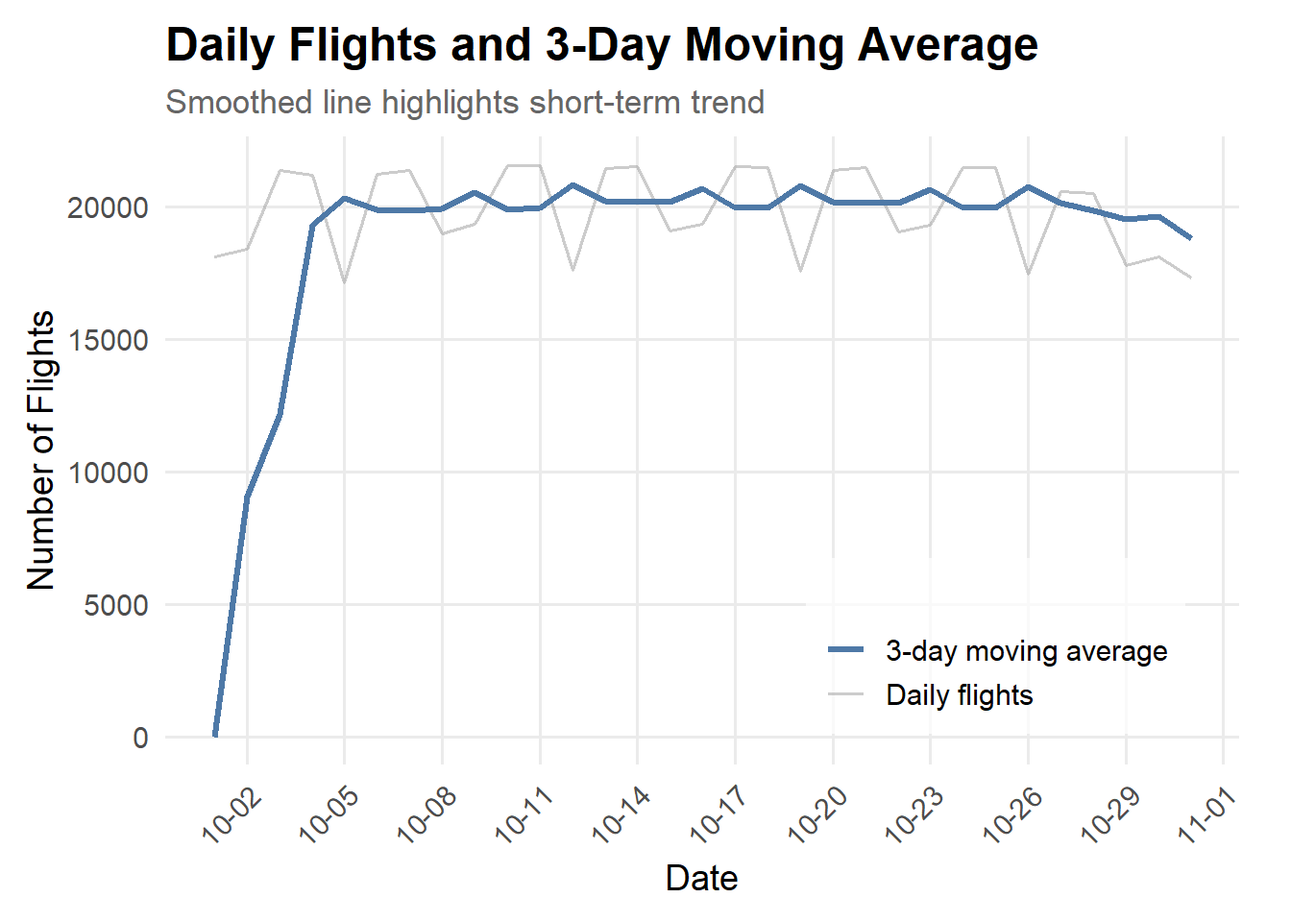
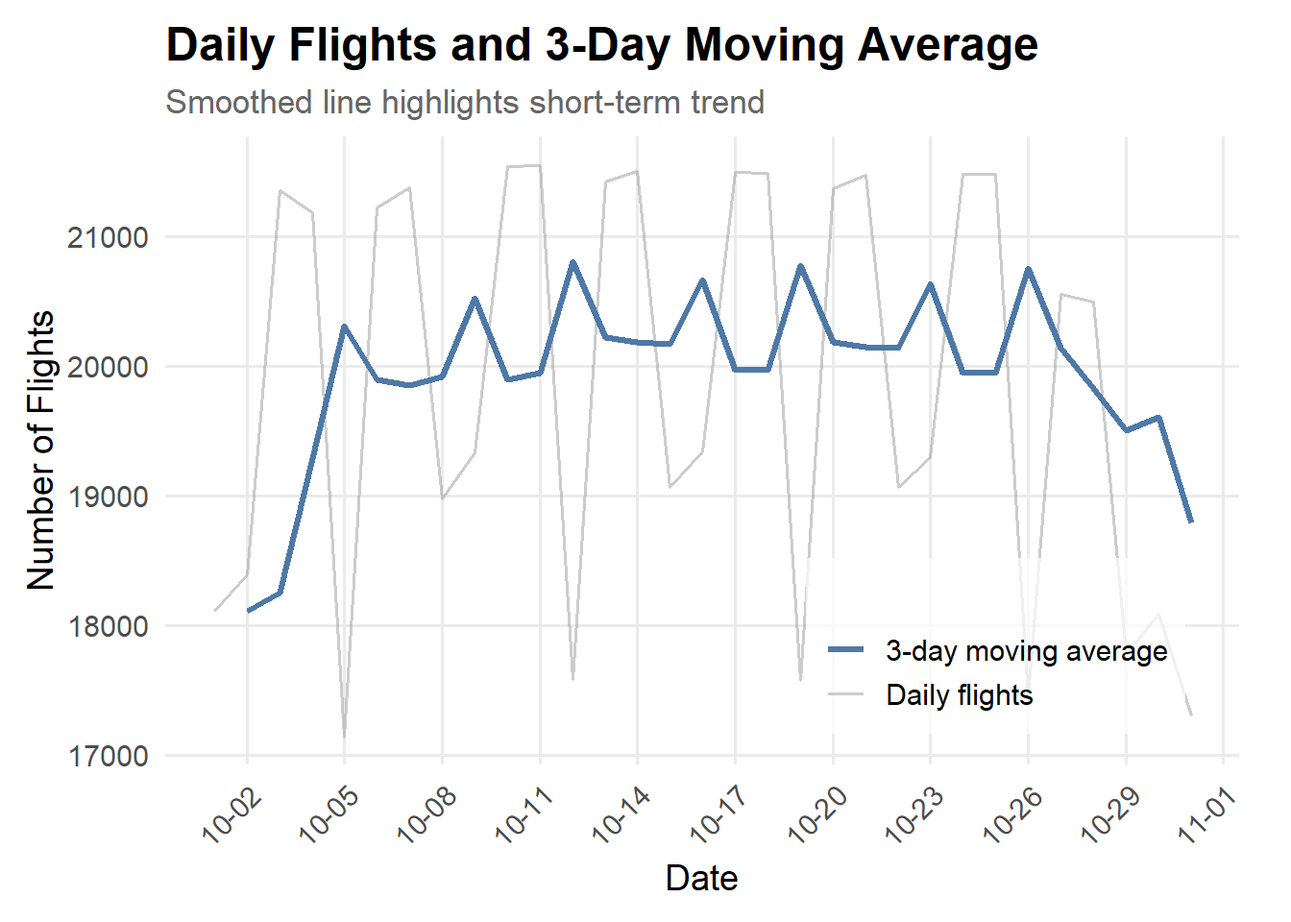
1

diff --git a/index.html b/index.html
@@ -214,43 +214,43 @@ pre > code.sourceCode > span > a:first-child::before { text-decoration: underlin
 <span id="cb1-4"><a href="#cb1-4" aria-hidden="true" tabindex="-1"></a><span class="fu">library</span>(ggplot2)</span>
 <span id="cb1-5"><a href="#cb1-5" aria-hidden="true" tabindex="-1"></a><span class="fu">library</span>(dplyr)</span>
 <span id="cb1-6"><a href="#cb1-6" aria-hidden="true" tabindex="-1"></a><span class="fu">library</span>(stringr)</span>
-<span id="cb1-7"><a href="#cb1-7" aria-hidden="true" tabindex="-1"></a><span class="fu">library</span>(forcats)</span>
-<span id="cb1-8"><a href="#cb1-8" aria-hidden="true" tabindex="-1"></a></span>
-<span id="cb1-9"><a href="#cb1-9" aria-hidden="true" tabindex="-1"></a>df_max_delay_airline <span class="ot">&lt;-</span> <span class="fu">read_csv</span>(<span class="st">"data/p1.csv"</span>)</span>
-<span id="cb1-10"><a href="#cb1-10" aria-hidden="true" tabindex="-1"></a>df_early_airline <span class="ot">&lt;-</span> <span class="fu">read_csv</span>(<span class="st">"data/p2.csv"</span>)</span>
-<span id="cb1-11"><a href="#cb1-11" aria-hidden="true" tabindex="-1"></a>df_weekday <span class="ot">&lt;-</span> <span class="fu">read_csv</span>(<span class="st">"data/p3.csv"</span>)</span>
-<span id="cb1-12"><a href="#cb1-12" aria-hidden="true" tabindex="-1"></a>df_worst_airport <span class="ot">&lt;-</span> <span class="fu">read_csv</span>(<span class="st">"data/p4.csv"</span>)</span>
-<span id="cb1-13"><a href="#cb1-13" aria-hidden="true" tabindex="-1"></a>df_worst_airport_by_airline <span class="ot">&lt;-</span> <span class="fu">read_csv</span>(<span class="st">"data/p5.csv"</span>)</span>
-<span id="cb1-14"><a href="#cb1-14" aria-hidden="true" tabindex="-1"></a>df_cancel_reason <span class="ot">&lt;-</span> <span class="fu">read_csv</span>(<span class="st">"data/p6b.csv"</span>)</span>
-<span id="cb1-15"><a href="#cb1-15" aria-hidden="true" tabindex="-1"></a>df_ma3 <span class="ot">&lt;-</span> <span class="fu">read_csv</span>(<span class="st">"data/p7.csv"</span>)</span></code></pre></div><button title="Copy to Clipboard" class="code-copy-button"><i class="bi"></i></button></div>
+<span id="cb1-7"><a href="#cb1-7" aria-hidden="true" tabindex="-1"></a><span class="fu">library</span>(forcats)</span></code></pre></div><button title="Copy to Clipboard" class="code-copy-button"><i class="bi"></i></button></div>
 </details>
 </div>
 <div class="cell">
 <details class="code-fold">
 <summary>Code</summary>
-<div class="code-copy-outer-scaffold"><div class="sourceCode cell-code" id="cb2"><pre class="sourceCode r code-with-copy"><code class="sourceCode r"><span id="cb2-1"><a href="#cb2-1" aria-hidden="true" tabindex="-1"></a>df_max_delay_airline <span class="sc">|&gt;</span></span>
-<span id="cb2-2"><a href="#cb2-2" aria-hidden="true" tabindex="-1"></a>  <span class="fu">arrange</span>(MaxDepDelay) <span class="sc">|&gt;</span></span>
-<span id="cb2-3"><a href="#cb2-3" aria-hidden="true" tabindex="-1"></a>  <span class="fu">mutate</span>(<span class="at">Airline =</span> <span class="fu">factor</span>(Airline, <span class="at">levels =</span> Airline)) <span class="sc">|&gt;</span></span>
-<span id="cb2-4"><a href="#cb2-4" aria-hidden="true" tabindex="-1"></a>  <span class="fu">ggplot</span>(<span class="fu">aes</span>(<span class="at">x =</span> Airline, <span class="at">y =</span> MaxDepDelay)) <span class="sc">+</span></span>
-<span id="cb2-5"><a href="#cb2-5" aria-hidden="true" tabindex="-1"></a>  <span class="fu">geom_col</span>(<span class="at">fill =</span> <span class="st">"#4E79A7"</span>) <span class="sc">+</span>   </span>
-<span id="cb2-6"><a href="#cb2-6" aria-hidden="true" tabindex="-1"></a>  <span class="fu">coord_flip</span>() <span class="sc">+</span></span>
-<span id="cb2-7"><a href="#cb2-7" aria-hidden="true" tabindex="-1"></a>  <span class="fu">labs</span>(</span>
-<span id="cb2-8"><a href="#cb2-8" aria-hidden="true" tabindex="-1"></a>    <span class="at">title =</span> <span class="st">"Maximum Departure Delay by Airline"</span>,</span>
-<span id="cb2-9"><a href="#cb2-9" aria-hidden="true" tabindex="-1"></a>    <span class="at">subtitle =</span> <span class="st">"Sorted by longest recorded departure delay"</span>,</span>
-<span id="cb2-10"><a href="#cb2-10" aria-hidden="true" tabindex="-1"></a>    <span class="at">x =</span> <span class="st">""</span>,</span>
-<span id="cb2-11"><a href="#cb2-11" aria-hidden="true" tabindex="-1"></a>    <span class="at">y =</span> <span class="st">"Maximum Delay (minutes)"</span></span>
-<span id="cb2-12"><a href="#cb2-12" aria-hidden="true" tabindex="-1"></a>  ) <span class="sc">+</span></span>
-<span id="cb2-13"><a href="#cb2-13" aria-hidden="true" tabindex="-1"></a>  <span class="fu">theme_minimal</span>(<span class="at">base_size =</span> <span class="dv">14</span>) <span class="sc">+</span></span>
-<span id="cb2-14"><a href="#cb2-14" aria-hidden="true" tabindex="-1"></a>  <span class="fu">theme</span>(</span>
-<span id="cb2-15"><a href="#cb2-15" aria-hidden="true" tabindex="-1"></a>    <span class="at">plot.title.position =</span> <span class="st">"plot"</span>,       </span>
-<span id="cb2-16"><a href="#cb2-16" aria-hidden="true" tabindex="-1"></a>    <span class="at">plot.title =</span> <span class="fu">element_text</span>(<span class="at">face =</span> <span class="st">"bold"</span>, <span class="at">size =</span> <span class="dv">18</span>, <span class="at">hjust =</span> <span class="dv">0</span>),  </span>
-<span id="cb2-17"><a href="#cb2-17" aria-hidden="true" tabindex="-1"></a>    <span class="at">plot.subtitle =</span> <span class="fu">element_text</span>(<span class="at">size =</span> <span class="dv">13</span>, <span class="at">colour =</span> <span class="st">"gray40"</span>, <span class="at">hjust =</span> <span class="dv">0</span>),</span>
-<span id="cb2-18"><a href="#cb2-18" aria-hidden="true" tabindex="-1"></a>    <span class="at">axis.text.y =</span> <span class="fu">element_text</span>(<span class="at">size =</span> <span class="dv">12</span>, <span class="at">face =</span> <span class="st">"bold"</span>),</span>
-<span id="cb2-19"><a href="#cb2-19" aria-hidden="true" tabindex="-1"></a>    <span class="at">axis.title.x =</span> <span class="fu">element_text</span>(<span class="at">size =</span> <span class="dv">12</span>),</span>
-<span id="cb2-20"><a href="#cb2-20" aria-hidden="true" tabindex="-1"></a>    <span class="at">panel.grid.major.y =</span> <span class="fu">element_blank</span>(),</span>
-<span id="cb2-21"><a href="#cb2-21" aria-hidden="true" tabindex="-1"></a>    <span class="at">panel.grid.minor =</span> <span class="fu">element_blank</span>(),</span>
-<span id="cb2-22"><a href="#cb2-22" aria-hidden="true" tabindex="-1"></a>    <span class="at">plot.margin =</span> <span class="fu">margin</span>(<span class="dv">10</span>, <span class="dv">20</span>, <span class="dv">10</span>, <span class="dv">10</span>)</span>
-<span id="cb2-23"><a href="#cb2-23" aria-hidden="true" tabindex="-1"></a>  )</span></code></pre></div><button title="Copy to Clipboard" class="code-copy-button"><i class="bi"></i></button></div>
+<div class="code-copy-outer-scaffold"><div class="sourceCode cell-code" id="cb2"><pre class="sourceCode r code-with-copy"><code class="sourceCode r"><span id="cb2-1"><a href="#cb2-1" aria-hidden="true" tabindex="-1"></a>df_max_delay_airline <span class="ot">&lt;-</span> <span class="fu">read_csv</span>(<span class="st">"data/p1.csv"</span>)</span>
+<span id="cb2-2"><a href="#cb2-2" aria-hidden="true" tabindex="-1"></a>df_early_airline <span class="ot">&lt;-</span> <span class="fu">read_csv</span>(<span class="st">"data/p2.csv"</span>)</span>
+<span id="cb2-3"><a href="#cb2-3" aria-hidden="true" tabindex="-1"></a>df_weekday <span class="ot">&lt;-</span> <span class="fu">read_csv</span>(<span class="st">"data/p3.csv"</span>)</span>
+<span id="cb2-4"><a href="#cb2-4" aria-hidden="true" tabindex="-1"></a>df_worst_airport <span class="ot">&lt;-</span> <span class="fu">read_csv</span>(<span class="st">"data/p4.csv"</span>)</span>
+<span id="cb2-5"><a href="#cb2-5" aria-hidden="true" tabindex="-1"></a>df_worst_airport_by_airline <span class="ot">&lt;-</span> <span class="fu">read_csv</span>(<span class="st">"data/p5.csv"</span>)</span>
+<span id="cb2-6"><a href="#cb2-6" aria-hidden="true" tabindex="-1"></a>df_cancel_reason <span class="ot">&lt;-</span> <span class="fu">read_csv</span>(<span class="st">"data/p6b.csv"</span>)</span>
+<span id="cb2-7"><a href="#cb2-7" aria-hidden="true" tabindex="-1"></a>df_ma3 <span class="ot">&lt;-</span> <span class="fu">read_csv</span>(<span class="st">"data/p7.csv"</span>)</span>
+<span id="cb2-8"><a href="#cb2-8" aria-hidden="true" tabindex="-1"></a></span>
+<span id="cb2-9"><a href="#cb2-9" aria-hidden="true" tabindex="-1"></a>df_max_delay_airline <span class="sc">|&gt;</span></span>
+<span id="cb2-10"><a href="#cb2-10" aria-hidden="true" tabindex="-1"></a>  <span class="fu">arrange</span>(MaxDepDelay) <span class="sc">|&gt;</span></span>
+<span id="cb2-11"><a href="#cb2-11" aria-hidden="true" tabindex="-1"></a>  <span class="fu">mutate</span>(<span class="at">Airline =</span> <span class="fu">factor</span>(Airline, <span class="at">levels =</span> Airline)) <span class="sc">|&gt;</span></span>
+<span id="cb2-12"><a href="#cb2-12" aria-hidden="true" tabindex="-1"></a>  <span class="fu">ggplot</span>(<span class="fu">aes</span>(<span class="at">x =</span> Airline, <span class="at">y =</span> MaxDepDelay)) <span class="sc">+</span></span>
+<span id="cb2-13"><a href="#cb2-13" aria-hidden="true" tabindex="-1"></a>  <span class="fu">geom_col</span>(<span class="at">fill =</span> <span class="st">"#4E79A7"</span>) <span class="sc">+</span>   </span>
+<span id="cb2-14"><a href="#cb2-14" aria-hidden="true" tabindex="-1"></a>  <span class="fu">coord_flip</span>() <span class="sc">+</span></span>
+<span id="cb2-15"><a href="#cb2-15" aria-hidden="true" tabindex="-1"></a>  <span class="fu">labs</span>(</span>
+<span id="cb2-16"><a href="#cb2-16" aria-hidden="true" tabindex="-1"></a>    <span class="at">title =</span> <span class="st">"Maximum Departure Delay by Airline"</span>,</span>
+<span id="cb2-17"><a href="#cb2-17" aria-hidden="true" tabindex="-1"></a>    <span class="at">subtitle =</span> <span class="st">"Sorted by longest recorded departure delay"</span>,</span>
+<span id="cb2-18"><a href="#cb2-18" aria-hidden="true" tabindex="-1"></a>    <span class="at">x =</span> <span class="st">""</span>,</span>
+<span id="cb2-19"><a href="#cb2-19" aria-hidden="true" tabindex="-1"></a>    <span class="at">y =</span> <span class="st">"Maximum Delay (minutes)"</span></span>
+<span id="cb2-20"><a href="#cb2-20" aria-hidden="true" tabindex="-1"></a>  ) <span class="sc">+</span></span>
+<span id="cb2-21"><a href="#cb2-21" aria-hidden="true" tabindex="-1"></a>  <span class="fu">theme_minimal</span>(<span class="at">base_size =</span> <span class="dv">14</span>) <span class="sc">+</span></span>
+<span id="cb2-22"><a href="#cb2-22" aria-hidden="true" tabindex="-1"></a>  <span class="fu">theme</span>(</span>
+<span id="cb2-23"><a href="#cb2-23" aria-hidden="true" tabindex="-1"></a>    <span class="at">plot.title.position =</span> <span class="st">"plot"</span>,       </span>
+<span id="cb2-24"><a href="#cb2-24" aria-hidden="true" tabindex="-1"></a>    <span class="at">plot.title =</span> <span class="fu">element_text</span>(<span class="at">face =</span> <span class="st">"bold"</span>, <span class="at">size =</span> <span class="dv">18</span>, <span class="at">hjust =</span> <span class="dv">0</span>),  </span>
+<span id="cb2-25"><a href="#cb2-25" aria-hidden="true" tabindex="-1"></a>    <span class="at">plot.subtitle =</span> <span class="fu">element_text</span>(<span class="at">size =</span> <span class="dv">13</span>, <span class="at">colour =</span> <span class="st">"gray40"</span>, <span class="at">hjust =</span> <span class="dv">0</span>),</span>
+<span id="cb2-26"><a href="#cb2-26" aria-hidden="true" tabindex="-1"></a>    <span class="at">axis.text.y =</span> <span class="fu">element_text</span>(<span class="at">size =</span> <span class="dv">12</span>, <span class="at">face =</span> <span class="st">"bold"</span>),</span>
+<span id="cb2-27"><a href="#cb2-27" aria-hidden="true" tabindex="-1"></a>    <span class="at">axis.title.x =</span> <span class="fu">element_text</span>(<span class="at">size =</span> <span class="dv">12</span>),</span>
+<span id="cb2-28"><a href="#cb2-28" aria-hidden="true" tabindex="-1"></a>    <span class="at">panel.grid.major.y =</span> <span class="fu">element_blank</span>(),</span>
+<span id="cb2-29"><a href="#cb2-29" aria-hidden="true" tabindex="-1"></a>    <span class="at">panel.grid.minor =</span> <span class="fu">element_blank</span>(),</span>
+<span id="cb2-30"><a href="#cb2-30" aria-hidden="true" tabindex="-1"></a>    <span class="at">plot.margin =</span> <span class="fu">margin</span>(<span class="dv">10</span>, <span class="dv">20</span>, <span class="dv">10</span>, <span class="dv">10</span>)</span>
+<span id="cb2-31"><a href="#cb2-31" aria-hidden="true" tabindex="-1"></a>  )</span></code></pre></div><button title="Copy to Clipboard" class="code-copy-button"><i class="bi"></i></button></div>
 </details>
 <div class="cell-output-display">
 <div>
@@ -377,43 +377,50 @@ pre > code.sourceCode > span > a:first-child::before { text-decoration: underlin
 <div class="cell">
 <details class="code-fold">
 <summary>Code</summary>
-<div class="code-copy-outer-scaffold"><div class="sourceCode cell-code" id="cb5"><pre class="sourceCode r code-with-copy"><code class="sourceCode r"><span id="cb5-1"><a href="#cb5-1" aria-hidden="true" tabindex="-1"></a>df_ma3 <span class="sc">|&gt;</span></span>
+<div class="code-copy-outer-scaffold"><div class="sourceCode cell-code" id="cb5"><pre class="sourceCode r code-with-copy"><code class="sourceCode r"><span id="cb5-1"><a href="#cb5-1" aria-hidden="true" tabindex="-1"></a>df_ma3 <span class="ot">&lt;-</span> df_ma3 <span class="sc">|&gt;</span></span>
 <span id="cb5-2"><a href="#cb5-2" aria-hidden="true" tabindex="-1"></a>  <span class="fu">mutate</span>(</span>
-<span id="cb5-3"><a href="#cb5-3" aria-hidden="true" tabindex="-1"></a>    <span class="at">Date =</span> <span class="fu">as_date</span>(d)</span>
-<span id="cb5-4"><a href="#cb5-4" aria-hidden="true" tabindex="-1"></a>  ) <span class="sc">|&gt;</span></span>
-<span id="cb5-5"><a href="#cb5-5" aria-hidden="true" tabindex="-1"></a>  <span class="fu">ggplot</span>(<span class="fu">aes</span>(<span class="at">x =</span> Date)) <span class="sc">+</span></span>
-<span id="cb5-6"><a href="#cb5-6" aria-hidden="true" tabindex="-1"></a>  <span class="fu">geom_line</span>(<span class="fu">aes</span>(<span class="at">y =</span> NumFlights, <span class="at">colour =</span> <span class="st">"Daily flights"</span>),</span>
-<span id="cb5-7"><a href="#cb5-7" aria-hidden="true" tabindex="-1"></a>            <span class="at">linewidth =</span> <span class="fl">0.6</span>, <span class="at">alpha =</span> <span class="fl">0.5</span>) <span class="sc">+</span></span>
-<span id="cb5-8"><a href="#cb5-8" aria-hidden="true" tabindex="-1"></a>  <span class="fu">geom_line</span>(<span class="fu">aes</span>(<span class="at">y =</span> AvgPrev3Days, <span class="at">colour =</span> <span class="st">"3-day moving average"</span>),</span>
-<span id="cb5-9"><a href="#cb5-9" aria-hidden="true" tabindex="-1"></a>            <span class="at">linewidth =</span> <span class="fl">1.2</span>) <span class="sc">+</span></span>
-<span id="cb5-10"><a href="#cb5-10" aria-hidden="true" tabindex="-1"></a>  <span class="fu">scale_colour_manual</span>(</span>
-<span id="cb5-11"><a href="#cb5-11" aria-hidden="true" tabindex="-1"></a>    <span class="at">name =</span> <span class="st">""</span>,</span>
-<span id="cb5-12"><a href="#cb5-12" aria-hidden="true" tabindex="-1"></a>    <span class="at">values =</span> <span class="fu">c</span>(</span>
-<span id="cb5-13"><a href="#cb5-13" aria-hidden="true" tabindex="-1"></a>      <span class="st">"Daily flights"</span> <span class="ot">=</span> <span class="st">"grey60"</span>,</span>
-<span id="cb5-14"><a href="#cb5-14" aria-hidden="true" tabindex="-1"></a>      <span class="st">"3-day moving average"</span> <span class="ot">=</span> <span class="st">"#4E79A7"</span>   </span>
-<span id="cb5-15"><a href="#cb5-15" aria-hidden="true" tabindex="-1"></a>    )</span>
-<span id="cb5-16"><a href="#cb5-16" aria-hidden="true" tabindex="-1"></a>  ) <span class="sc">+</span></span>
-<span id="cb5-17"><a href="#cb5-17" aria-hidden="true" tabindex="-1"></a>  <span class="fu">scale_x_date</span>(</span>
-<span id="cb5-18"><a href="#cb5-18" aria-hidden="true" tabindex="-1"></a>    <span class="at">date_breaks =</span> <span class="st">"3 days"</span>,</span>
-<span id="cb5-19"><a href="#cb5-19" aria-hidden="true" tabindex="-1"></a>    <span class="at">date_labels =</span> <span class="st">"%m-%d"</span></span>
-<span id="cb5-20"><a href="#cb5-20" aria-hidden="true" tabindex="-1"></a>  ) <span class="sc">+</span></span>
-<span id="cb5-21"><a href="#cb5-21" aria-hidden="true" tabindex="-1"></a>  <span class="fu">labs</span>(</span>
-<span id="cb5-22"><a href="#cb5-22" aria-hidden="true" tabindex="-1"></a>    <span class="at">title =</span> <span class="st">"Daily Flights and 3-Day Moving Average"</span>,</span>
-<span id="cb5-23"><a href="#cb5-23" aria-hidden="true" tabindex="-1"></a>    <span class="at">subtitle =</span> <span class="st">"Smoothed line highlights short-term trend"</span>,</span>
-<span id="cb5-24"><a href="#cb5-24" aria-hidden="true" tabindex="-1"></a>    <span class="at">x =</span> <span class="st">"Date"</span>,</span>
-<span id="cb5-25"><a href="#cb5-25" aria-hidden="true" tabindex="-1"></a>    <span class="at">y =</span> <span class="st">"Number of Flights"</span></span>
-<span id="cb5-26"><a href="#cb5-26" aria-hidden="true" tabindex="-1"></a>  ) <span class="sc">+</span></span>
-<span id="cb5-27"><a href="#cb5-27" aria-hidden="true" tabindex="-1"></a>  <span class="fu">theme_minimal</span>(<span class="at">base_size =</span> <span class="dv">14</span>) <span class="sc">+</span></span>
-<span id="cb5-28"><a href="#cb5-28" aria-hidden="true" tabindex="-1"></a>  <span class="fu">theme</span>(</span>
-<span id="cb5-29"><a href="#cb5-29" aria-hidden="true" tabindex="-1"></a>    <span class="at">plot.title =</span> <span class="fu">element_text</span>(<span class="at">face =</span> <span class="st">"bold"</span>, <span class="at">size =</span> <span class="dv">18</span>),</span>
-<span id="cb5-30"><a href="#cb5-30" aria-hidden="true" tabindex="-1"></a>    <span class="at">plot.subtitle =</span> <span class="fu">element_text</span>(<span class="at">size =</span> <span class="dv">13</span>, <span class="at">colour =</span> <span class="st">"gray40"</span>),</span>
-<span id="cb5-31"><a href="#cb5-31" aria-hidden="true" tabindex="-1"></a>    <span class="at">legend.position =</span> <span class="fu">c</span>(<span class="fl">0.95</span>, <span class="fl">0.05</span>),</span>
-<span id="cb5-32"><a href="#cb5-32" aria-hidden="true" tabindex="-1"></a>    <span class="at">legend.justification =</span> <span class="fu">c</span>(<span class="st">"right"</span>, <span class="st">"bottom"</span>),</span>
-<span id="cb5-33"><a href="#cb5-33" aria-hidden="true" tabindex="-1"></a>    <span class="at">legend.background =</span> <span class="fu">element_rect</span>(<span class="at">fill =</span> <span class="fu">alpha</span>(<span class="st">"white"</span>, <span class="fl">0.7</span>), <span class="at">colour =</span> <span class="cn">NA</span>),</span>
-<span id="cb5-34"><a href="#cb5-34" aria-hidden="true" tabindex="-1"></a>    <span class="at">panel.grid.minor =</span> <span class="fu">element_blank</span>(),</span>
-<span id="cb5-35"><a href="#cb5-35" aria-hidden="true" tabindex="-1"></a>    <span class="at">axis.text.x =</span> <span class="fu">element_text</span>(<span class="at">angle =</span> <span class="dv">45</span>, <span class="at">hjust =</span> <span class="dv">1</span>),</span>
-<span id="cb5-36"><a href="#cb5-36" aria-hidden="true" tabindex="-1"></a>    <span class="at">plot.margin =</span> <span class="fu">margin</span>(<span class="dv">10</span>, <span class="dv">20</span>, <span class="dv">10</span>, <span class="dv">10</span>)</span>
-<span id="cb5-37"><a href="#cb5-37" aria-hidden="true" tabindex="-1"></a>  )</span></code></pre></div><button title="Copy to Clipboard" class="code-copy-button"><i class="bi"></i></button></div>
+<span id="cb5-3"><a href="#cb5-3" aria-hidden="true" tabindex="-1"></a>    <span class="at">Date =</span> <span class="fu">as_date</span>(d),</span>
+<span id="cb5-4"><a href="#cb5-4" aria-hidden="true" tabindex="-1"></a>    <span class="at">NumFlights =</span> <span class="fu">as.numeric</span>(NumFlights),</span>
+<span id="cb5-5"><a href="#cb5-5" aria-hidden="true" tabindex="-1"></a>    <span class="at">AvgPrev3Days =</span> <span class="fu">as.numeric</span>(AvgPrev3Days)</span>
+<span id="cb5-6"><a href="#cb5-6" aria-hidden="true" tabindex="-1"></a>  )</span>
+<span id="cb5-7"><a href="#cb5-7" aria-hidden="true" tabindex="-1"></a></span>
+<span id="cb5-8"><a href="#cb5-8" aria-hidden="true" tabindex="-1"></a>df_ma3 <span class="sc">|&gt;</span></span>
+<span id="cb5-9"><a href="#cb5-9" aria-hidden="true" tabindex="-1"></a>  <span class="fu">mutate</span>(</span>
+<span id="cb5-10"><a href="#cb5-10" aria-hidden="true" tabindex="-1"></a>    <span class="at">Date =</span> <span class="fu">as_date</span>(d)</span>
+<span id="cb5-11"><a href="#cb5-11" aria-hidden="true" tabindex="-1"></a>  ) <span class="sc">|&gt;</span></span>
+<span id="cb5-12"><a href="#cb5-12" aria-hidden="true" tabindex="-1"></a>  <span class="fu">ggplot</span>(<span class="fu">aes</span>(<span class="at">x =</span> Date)) <span class="sc">+</span></span>
+<span id="cb5-13"><a href="#cb5-13" aria-hidden="true" tabindex="-1"></a>  <span class="fu">geom_line</span>(<span class="fu">aes</span>(<span class="at">y =</span> NumFlights, <span class="at">colour =</span> <span class="st">"Daily flights"</span>),</span>
+<span id="cb5-14"><a href="#cb5-14" aria-hidden="true" tabindex="-1"></a>            <span class="at">linewidth =</span> <span class="fl">0.6</span>, <span class="at">alpha =</span> <span class="fl">0.5</span>) <span class="sc">+</span></span>
+<span id="cb5-15"><a href="#cb5-15" aria-hidden="true" tabindex="-1"></a>  <span class="fu">geom_line</span>(<span class="fu">aes</span>(<span class="at">y =</span> AvgPrev3Days, <span class="at">colour =</span> <span class="st">"3-day moving average"</span>),</span>
+<span id="cb5-16"><a href="#cb5-16" aria-hidden="true" tabindex="-1"></a>            <span class="at">linewidth =</span> <span class="fl">1.2</span>) <span class="sc">+</span></span>
+<span id="cb5-17"><a href="#cb5-17" aria-hidden="true" tabindex="-1"></a>  <span class="fu">scale_colour_manual</span>(</span>
+<span id="cb5-18"><a href="#cb5-18" aria-hidden="true" tabindex="-1"></a>    <span class="at">name =</span> <span class="st">""</span>,</span>
+<span id="cb5-19"><a href="#cb5-19" aria-hidden="true" tabindex="-1"></a>    <span class="at">values =</span> <span class="fu">c</span>(</span>
+<span id="cb5-20"><a href="#cb5-20" aria-hidden="true" tabindex="-1"></a>      <span class="st">"Daily flights"</span> <span class="ot">=</span> <span class="st">"grey60"</span>,</span>
+<span id="cb5-21"><a href="#cb5-21" aria-hidden="true" tabindex="-1"></a>      <span class="st">"3-day moving average"</span> <span class="ot">=</span> <span class="st">"#4E79A7"</span>   </span>
+<span id="cb5-22"><a href="#cb5-22" aria-hidden="true" tabindex="-1"></a>    )</span>
+<span id="cb5-23"><a href="#cb5-23" aria-hidden="true" tabindex="-1"></a>  ) <span class="sc">+</span></span>
+<span id="cb5-24"><a href="#cb5-24" aria-hidden="true" tabindex="-1"></a>  <span class="fu">scale_x_date</span>(</span>
+<span id="cb5-25"><a href="#cb5-25" aria-hidden="true" tabindex="-1"></a>    <span class="at">date_breaks =</span> <span class="st">"3 days"</span>,</span>
+<span id="cb5-26"><a href="#cb5-26" aria-hidden="true" tabindex="-1"></a>    <span class="at">date_labels =</span> <span class="st">"%m-%d"</span></span>
+<span id="cb5-27"><a href="#cb5-27" aria-hidden="true" tabindex="-1"></a>  ) <span class="sc">+</span></span>
+<span id="cb5-28"><a href="#cb5-28" aria-hidden="true" tabindex="-1"></a>  <span class="fu">labs</span>(</span>
+<span id="cb5-29"><a href="#cb5-29" aria-hidden="true" tabindex="-1"></a>    <span class="at">title =</span> <span class="st">"Daily Flights and 3-Day Moving Average"</span>,</span>
+<span id="cb5-30"><a href="#cb5-30" aria-hidden="true" tabindex="-1"></a>    <span class="at">subtitle =</span> <span class="st">"Smoothed line highlights short-term trend"</span>,</span>
+<span id="cb5-31"><a href="#cb5-31" aria-hidden="true" tabindex="-1"></a>    <span class="at">x =</span> <span class="st">"Date"</span>,</span>
+<span id="cb5-32"><a href="#cb5-32" aria-hidden="true" tabindex="-1"></a>    <span class="at">y =</span> <span class="st">"Number of Flights"</span></span>
+<span id="cb5-33"><a href="#cb5-33" aria-hidden="true" tabindex="-1"></a>  ) <span class="sc">+</span></span>
+<span id="cb5-34"><a href="#cb5-34" aria-hidden="true" tabindex="-1"></a>  <span class="fu">theme_minimal</span>(<span class="at">base_size =</span> <span class="dv">14</span>) <span class="sc">+</span></span>
+<span id="cb5-35"><a href="#cb5-35" aria-hidden="true" tabindex="-1"></a>  <span class="fu">theme</span>(</span>
+<span id="cb5-36"><a href="#cb5-36" aria-hidden="true" tabindex="-1"></a>    <span class="at">plot.title =</span> <span class="fu">element_text</span>(<span class="at">face =</span> <span class="st">"bold"</span>, <span class="at">size =</span> <span class="dv">18</span>),</span>
+<span id="cb5-37"><a href="#cb5-37" aria-hidden="true" tabindex="-1"></a>    <span class="at">plot.subtitle =</span> <span class="fu">element_text</span>(<span class="at">size =</span> <span class="dv">13</span>, <span class="at">colour =</span> <span class="st">"gray40"</span>),</span>
+<span id="cb5-38"><a href="#cb5-38" aria-hidden="true" tabindex="-1"></a>    <span class="at">legend.position =</span> <span class="fu">c</span>(<span class="fl">0.95</span>, <span class="fl">0.05</span>),</span>
+<span id="cb5-39"><a href="#cb5-39" aria-hidden="true" tabindex="-1"></a>    <span class="at">legend.justification =</span> <span class="fu">c</span>(<span class="st">"right"</span>, <span class="st">"bottom"</span>),</span>
+<span id="cb5-40"><a href="#cb5-40" aria-hidden="true" tabindex="-1"></a>    <span class="at">legend.background =</span> <span class="fu">element_rect</span>(<span class="at">fill =</span> <span class="fu">alpha</span>(<span class="st">"white"</span>, <span class="fl">0.7</span>), <span class="at">colour =</span> <span class="cn">NA</span>),</span>
+<span id="cb5-41"><a href="#cb5-41" aria-hidden="true" tabindex="-1"></a>    <span class="at">panel.grid.minor =</span> <span class="fu">element_blank</span>(),</span>
+<span id="cb5-42"><a href="#cb5-42" aria-hidden="true" tabindex="-1"></a>    <span class="at">axis.text.x =</span> <span class="fu">element_text</span>(<span class="at">angle =</span> <span class="dv">45</span>, <span class="at">hjust =</span> <span class="dv">1</span>),</span>
+<span id="cb5-43"><a href="#cb5-43" aria-hidden="true" tabindex="-1"></a>    <span class="at">plot.margin =</span> <span class="fu">margin</span>(<span class="dv">10</span>, <span class="dv">20</span>, <span class="dv">10</span>, <span class="dv">10</span>)</span>
+<span id="cb5-44"><a href="#cb5-44" aria-hidden="true" tabindex="-1"></a>  )</span></code></pre></div><button title="Copy to Clipboard" class="code-copy-button"><i class="bi"></i></button></div>
 </details>
 <div class="cell-output-display">
 <div>
@@ -424,15 +431,15 @@ pre > code.sourceCode > span > a:first-child::before { text-decoration: underlin
 </div>
 </div>
 <p><strong>Insight:</strong></p>
-<p>Daily flight volume and the three-day moving average show:</p>
+<p>First, the 3-day moving average shows that overall flight volume remained remarkably stable for most of the month, consistently hovering around <strong>20,000 flights per day</strong>. After the early-month ramp-up (caused by data window boundaries rather than true traffic expansion), the trend line flattens, indicating that demand and operational capacity stayed steady despite regional weather disruptions earlier in the month.</p>
+<p>Second, the raw daily counts reveal a <strong>strong weekly cycle</strong>. Flight activity dips sharply every 6–7 days—corresponding to weekend troughs, followed by a rebound at the start of the week and a peak approaching the mid-week business-travel window. This pattern mirrors the broader industry structure:</p>
 <ul>
-<li><strong>Flight volume climbed rapidly at the beginning of October</strong> (related to data coverage), then stabilized.</li>
-<li>Throughout October, total flight volume remained stable between <strong>19,000 and 21,000 flights</strong>.</li>
-<li>Slight fluctuations exhibited a <strong>weekday-weekend</strong> rhythm: a decline on weekends → a recovery on Mondays → a peak in the middle of the week.</li>
-<li>A slight downward trend appeared in late October, possibly related to seasonal demand changes or weather events.</li>
+<li><strong>Higher mid-week volumes</strong> driven by business travel</li>
+<li><strong>Lower weekend volumes</strong>, especially on Saturdays</li>
+<li>Repeated, predictable oscillations independent of weather events</li>
 </ul>
 <blockquote class="blockquote">
-<p><strong>In summary: Despite cyclical fluctuations during the day, overall flight volume remained stable in October, indicating strong operational resilience of the aviation system during the month.</strong></p>
+<p><strong>In summary, despite intermittent day-to-day volatility, October 2024 maintained a stable overall flight volume with clear weekly demand cycles. This indicates strong underlying demand and a resilient operational baseline, even in a month affected by significant regional weather events.</strong></p>
 </blockquote>
 </section>
 </section>
@@ -443,37 +450,33 @@ pre > code.sourceCode > span > a:first-child::before { text-decoration: underlin
 <div class="cell">
 <details class="code-fold">
 <summary>Code</summary>
-<div class="code-copy-outer-scaffold"><div class="sourceCode cell-code" id="cb6"><pre class="sourceCode r code-with-copy"><code class="sourceCode r"><span id="cb6-1"><a href="#cb6-1" aria-hidden="true" tabindex="-1"></a><span class="fu">library</span>(tidyverse)</span>
-<span id="cb6-2"><a href="#cb6-2" aria-hidden="true" tabindex="-1"></a><span class="fu">library</span>(forcats)</span>
-<span id="cb6-3"><a href="#cb6-3" aria-hidden="true" tabindex="-1"></a><span class="fu">library</span>(stringr)</span>
-<span id="cb6-4"><a href="#cb6-4" aria-hidden="true" tabindex="-1"></a></span>
-<span id="cb6-5"><a href="#cb6-5" aria-hidden="true" tabindex="-1"></a>df_plot <span class="ot">&lt;-</span> df_worst_airport_by_airline <span class="sc">|&gt;</span></span>
-<span id="cb6-6"><a href="#cb6-6" aria-hidden="true" tabindex="-1"></a>  <span class="fu">mutate</span>(</span>
-<span id="cb6-7"><a href="#cb6-7" aria-hidden="true" tabindex="-1"></a>    <span class="at">AirportCode =</span> <span class="fu">str_extract</span>(Airport, <span class="st">"[A-Z]{3}(?=</span><span class="sc">\\</span><span class="st">)$)"</span>),</span>
-<span id="cb6-8"><a href="#cb6-8" aria-hidden="true" tabindex="-1"></a>    <span class="at">AirportCode =</span> <span class="fu">if_else</span>(<span class="fu">is.na</span>(AirportCode), Airport, Airport)  </span>
-<span id="cb6-9"><a href="#cb6-9" aria-hidden="true" tabindex="-1"></a>  )</span>
-<span id="cb6-10"><a href="#cb6-10" aria-hidden="true" tabindex="-1"></a></span>
-<span id="cb6-11"><a href="#cb6-11" aria-hidden="true" tabindex="-1"></a>df_plot <span class="sc">|&gt;</span></span>
-<span id="cb6-12"><a href="#cb6-12" aria-hidden="true" tabindex="-1"></a>  <span class="fu">mutate</span>(</span>
-<span id="cb6-13"><a href="#cb6-13" aria-hidden="true" tabindex="-1"></a>    <span class="at">Airline =</span> <span class="fu">fct_reorder</span>(Airline, AvgDelay)</span>
-<span id="cb6-14"><a href="#cb6-14" aria-hidden="true" tabindex="-1"></a>  ) <span class="sc">|&gt;</span></span>
-<span id="cb6-15"><a href="#cb6-15" aria-hidden="true" tabindex="-1"></a>  <span class="fu">ggplot</span>(<span class="fu">aes</span>(<span class="at">x =</span> AvgDelay, <span class="at">y =</span> Airline, <span class="at">fill =</span> AvgDelay)) <span class="sc">+</span></span>
-<span id="cb6-16"><a href="#cb6-16" aria-hidden="true" tabindex="-1"></a>  <span class="fu">geom_col</span>(<span class="at">width =</span> <span class="fl">0.6</span>) <span class="sc">+</span></span>
-<span id="cb6-17"><a href="#cb6-17" aria-hidden="true" tabindex="-1"></a>  <span class="fu">geom_text</span>(<span class="fu">aes</span>(<span class="at">label =</span> AirportCode),</span>
-<span id="cb6-18"><a href="#cb6-18" aria-hidden="true" tabindex="-1"></a>            <span class="at">hjust =</span> <span class="sc">-</span><span class="fl">0.1</span>, <span class="at">size =</span> <span class="dv">3</span>) <span class="sc">+</span>        </span>
-<span id="cb6-19"><a href="#cb6-19" aria-hidden="true" tabindex="-1"></a>  <span class="fu">scale_x_continuous</span>(<span class="at">expand =</span> <span class="fu">expansion</span>(<span class="at">mult =</span> <span class="fu">c</span>(<span class="dv">0</span>, <span class="fl">0.15</span>))) <span class="sc">+</span></span>
-<span id="cb6-20"><a href="#cb6-20" aria-hidden="true" tabindex="-1"></a>  <span class="fu">labs</span>(</span>
-<span id="cb6-21"><a href="#cb6-21" aria-hidden="true" tabindex="-1"></a>    <span class="at">title =</span> <span class="st">"Worst Airport for Each Airline (Avg Departure Delay)"</span>,</span>
-<span id="cb6-22"><a href="#cb6-22" aria-hidden="true" tabindex="-1"></a>    <span class="at">x =</span> <span class="st">"Average Departure Delay (minutes)"</span>,</span>
-<span id="cb6-23"><a href="#cb6-23" aria-hidden="true" tabindex="-1"></a>    <span class="at">y =</span> <span class="st">"Airline"</span></span>
-<span id="cb6-24"><a href="#cb6-24" aria-hidden="true" tabindex="-1"></a>  ) <span class="sc">+</span></span>
-<span id="cb6-25"><a href="#cb6-25" aria-hidden="true" tabindex="-1"></a>  <span class="fu">theme_minimal</span>(<span class="at">base_size =</span> <span class="dv">11</span>) <span class="sc">+</span></span>
-<span id="cb6-26"><a href="#cb6-26" aria-hidden="true" tabindex="-1"></a>  <span class="fu">theme</span>(</span>
-<span id="cb6-27"><a href="#cb6-27" aria-hidden="true" tabindex="-1"></a>    <span class="at">legend.position =</span> <span class="st">"none"</span>,</span>
-<span id="cb6-28"><a href="#cb6-28" aria-hidden="true" tabindex="-1"></a>    <span class="at">panel.grid.major =</span> <span class="fu">element_blank</span>(),</span>
-<span id="cb6-29"><a href="#cb6-29" aria-hidden="true" tabindex="-1"></a>    <span class="at">panel.grid.minor =</span> <span class="fu">element_blank</span>(),</span>
-<span id="cb6-30"><a href="#cb6-30" aria-hidden="true" tabindex="-1"></a>    <span class="at">panel.grid =</span> <span class="fu">element_blank</span>()            </span>
-<span id="cb6-31"><a href="#cb6-31" aria-hidden="true" tabindex="-1"></a>  )</span></code></pre></div><button title="Copy to Clipboard" class="code-copy-button"><i class="bi"></i></button></div>
+<div class="code-copy-outer-scaffold"><div class="sourceCode cell-code" id="cb6"><pre class="sourceCode r code-with-copy"><code class="sourceCode r"><span id="cb6-1"><a href="#cb6-1" aria-hidden="true" tabindex="-1"></a>df_plot <span class="ot">&lt;-</span> df_worst_airport_by_airline <span class="sc">|&gt;</span></span>
+<span id="cb6-2"><a href="#cb6-2" aria-hidden="true" tabindex="-1"></a>  <span class="fu">mutate</span>(</span>
+<span id="cb6-3"><a href="#cb6-3" aria-hidden="true" tabindex="-1"></a>    <span class="at">AirportCode =</span> <span class="fu">str_extract</span>(Airport, <span class="st">"[A-Z]{3}(?=</span><span class="sc">\\</span><span class="st">)$)"</span>),</span>
+<span id="cb6-4"><a href="#cb6-4" aria-hidden="true" tabindex="-1"></a>    <span class="at">AirportCode =</span> <span class="fu">if_else</span>(<span class="fu">is.na</span>(AirportCode), Airport, Airport)  </span>
+<span id="cb6-5"><a href="#cb6-5" aria-hidden="true" tabindex="-1"></a>  )</span>
+<span id="cb6-6"><a href="#cb6-6" aria-hidden="true" tabindex="-1"></a></span>
+<span id="cb6-7"><a href="#cb6-7" aria-hidden="true" tabindex="-1"></a>df_plot <span class="sc">|&gt;</span></span>
+<span id="cb6-8"><a href="#cb6-8" aria-hidden="true" tabindex="-1"></a>  <span class="fu">mutate</span>(</span>
+<span id="cb6-9"><a href="#cb6-9" aria-hidden="true" tabindex="-1"></a>    <span class="at">Airline =</span> <span class="fu">fct_reorder</span>(Airline, AvgDelay)</span>
+<span id="cb6-10"><a href="#cb6-10" aria-hidden="true" tabindex="-1"></a>  ) <span class="sc">|&gt;</span></span>
+<span id="cb6-11"><a href="#cb6-11" aria-hidden="true" tabindex="-1"></a>  <span class="fu">ggplot</span>(<span class="fu">aes</span>(<span class="at">x =</span> AvgDelay, <span class="at">y =</span> Airline, <span class="at">fill =</span> AvgDelay)) <span class="sc">+</span></span>
+<span id="cb6-12"><a href="#cb6-12" aria-hidden="true" tabindex="-1"></a>  <span class="fu">geom_col</span>(<span class="at">width =</span> <span class="fl">0.6</span>) <span class="sc">+</span></span>
+<span id="cb6-13"><a href="#cb6-13" aria-hidden="true" tabindex="-1"></a>  <span class="fu">geom_text</span>(<span class="fu">aes</span>(<span class="at">label =</span> AirportCode),</span>
+<span id="cb6-14"><a href="#cb6-14" aria-hidden="true" tabindex="-1"></a>            <span class="at">hjust =</span> <span class="sc">-</span><span class="fl">0.1</span>, <span class="at">size =</span> <span class="dv">3</span>) <span class="sc">+</span>        </span>
+<span id="cb6-15"><a href="#cb6-15" aria-hidden="true" tabindex="-1"></a>  <span class="fu">scale_x_continuous</span>(<span class="at">expand =</span> <span class="fu">expansion</span>(<span class="at">mult =</span> <span class="fu">c</span>(<span class="dv">0</span>, <span class="fl">0.15</span>))) <span class="sc">+</span></span>
+<span id="cb6-16"><a href="#cb6-16" aria-hidden="true" tabindex="-1"></a>  <span class="fu">labs</span>(</span>
+<span id="cb6-17"><a href="#cb6-17" aria-hidden="true" tabindex="-1"></a>    <span class="at">title =</span> <span class="st">"Worst Airport for Each Airline (Avg Departure Delay)"</span>,</span>
+<span id="cb6-18"><a href="#cb6-18" aria-hidden="true" tabindex="-1"></a>    <span class="at">x =</span> <span class="st">"Average Departure Delay (minutes)"</span>,</span>
+<span id="cb6-19"><a href="#cb6-19" aria-hidden="true" tabindex="-1"></a>    <span class="at">y =</span> <span class="st">"Airline"</span></span>
+<span id="cb6-20"><a href="#cb6-20" aria-hidden="true" tabindex="-1"></a>  ) <span class="sc">+</span></span>
+<span id="cb6-21"><a href="#cb6-21" aria-hidden="true" tabindex="-1"></a>  <span class="fu">theme_minimal</span>(<span class="at">base_size =</span> <span class="dv">11</span>) <span class="sc">+</span></span>
+<span id="cb6-22"><a href="#cb6-22" aria-hidden="true" tabindex="-1"></a>  <span class="fu">theme</span>(</span>
+<span id="cb6-23"><a href="#cb6-23" aria-hidden="true" tabindex="-1"></a>    <span class="at">legend.position =</span> <span class="st">"none"</span>,</span>
+<span id="cb6-24"><a href="#cb6-24" aria-hidden="true" tabindex="-1"></a>    <span class="at">panel.grid.major =</span> <span class="fu">element_blank</span>(),</span>
+<span id="cb6-25"><a href="#cb6-25" aria-hidden="true" tabindex="-1"></a>    <span class="at">panel.grid.minor =</span> <span class="fu">element_blank</span>(),</span>
+<span id="cb6-26"><a href="#cb6-26" aria-hidden="true" tabindex="-1"></a>    <span class="at">panel.grid =</span> <span class="fu">element_blank</span>()            </span>
+<span id="cb6-27"><a href="#cb6-27" aria-hidden="true" tabindex="-1"></a>  )</span></code></pre></div><button title="Copy to Clipboard" class="code-copy-button"><i class="bi"></i></button></div>
 </details>
 <div class="cell-output-display">
 <div>
